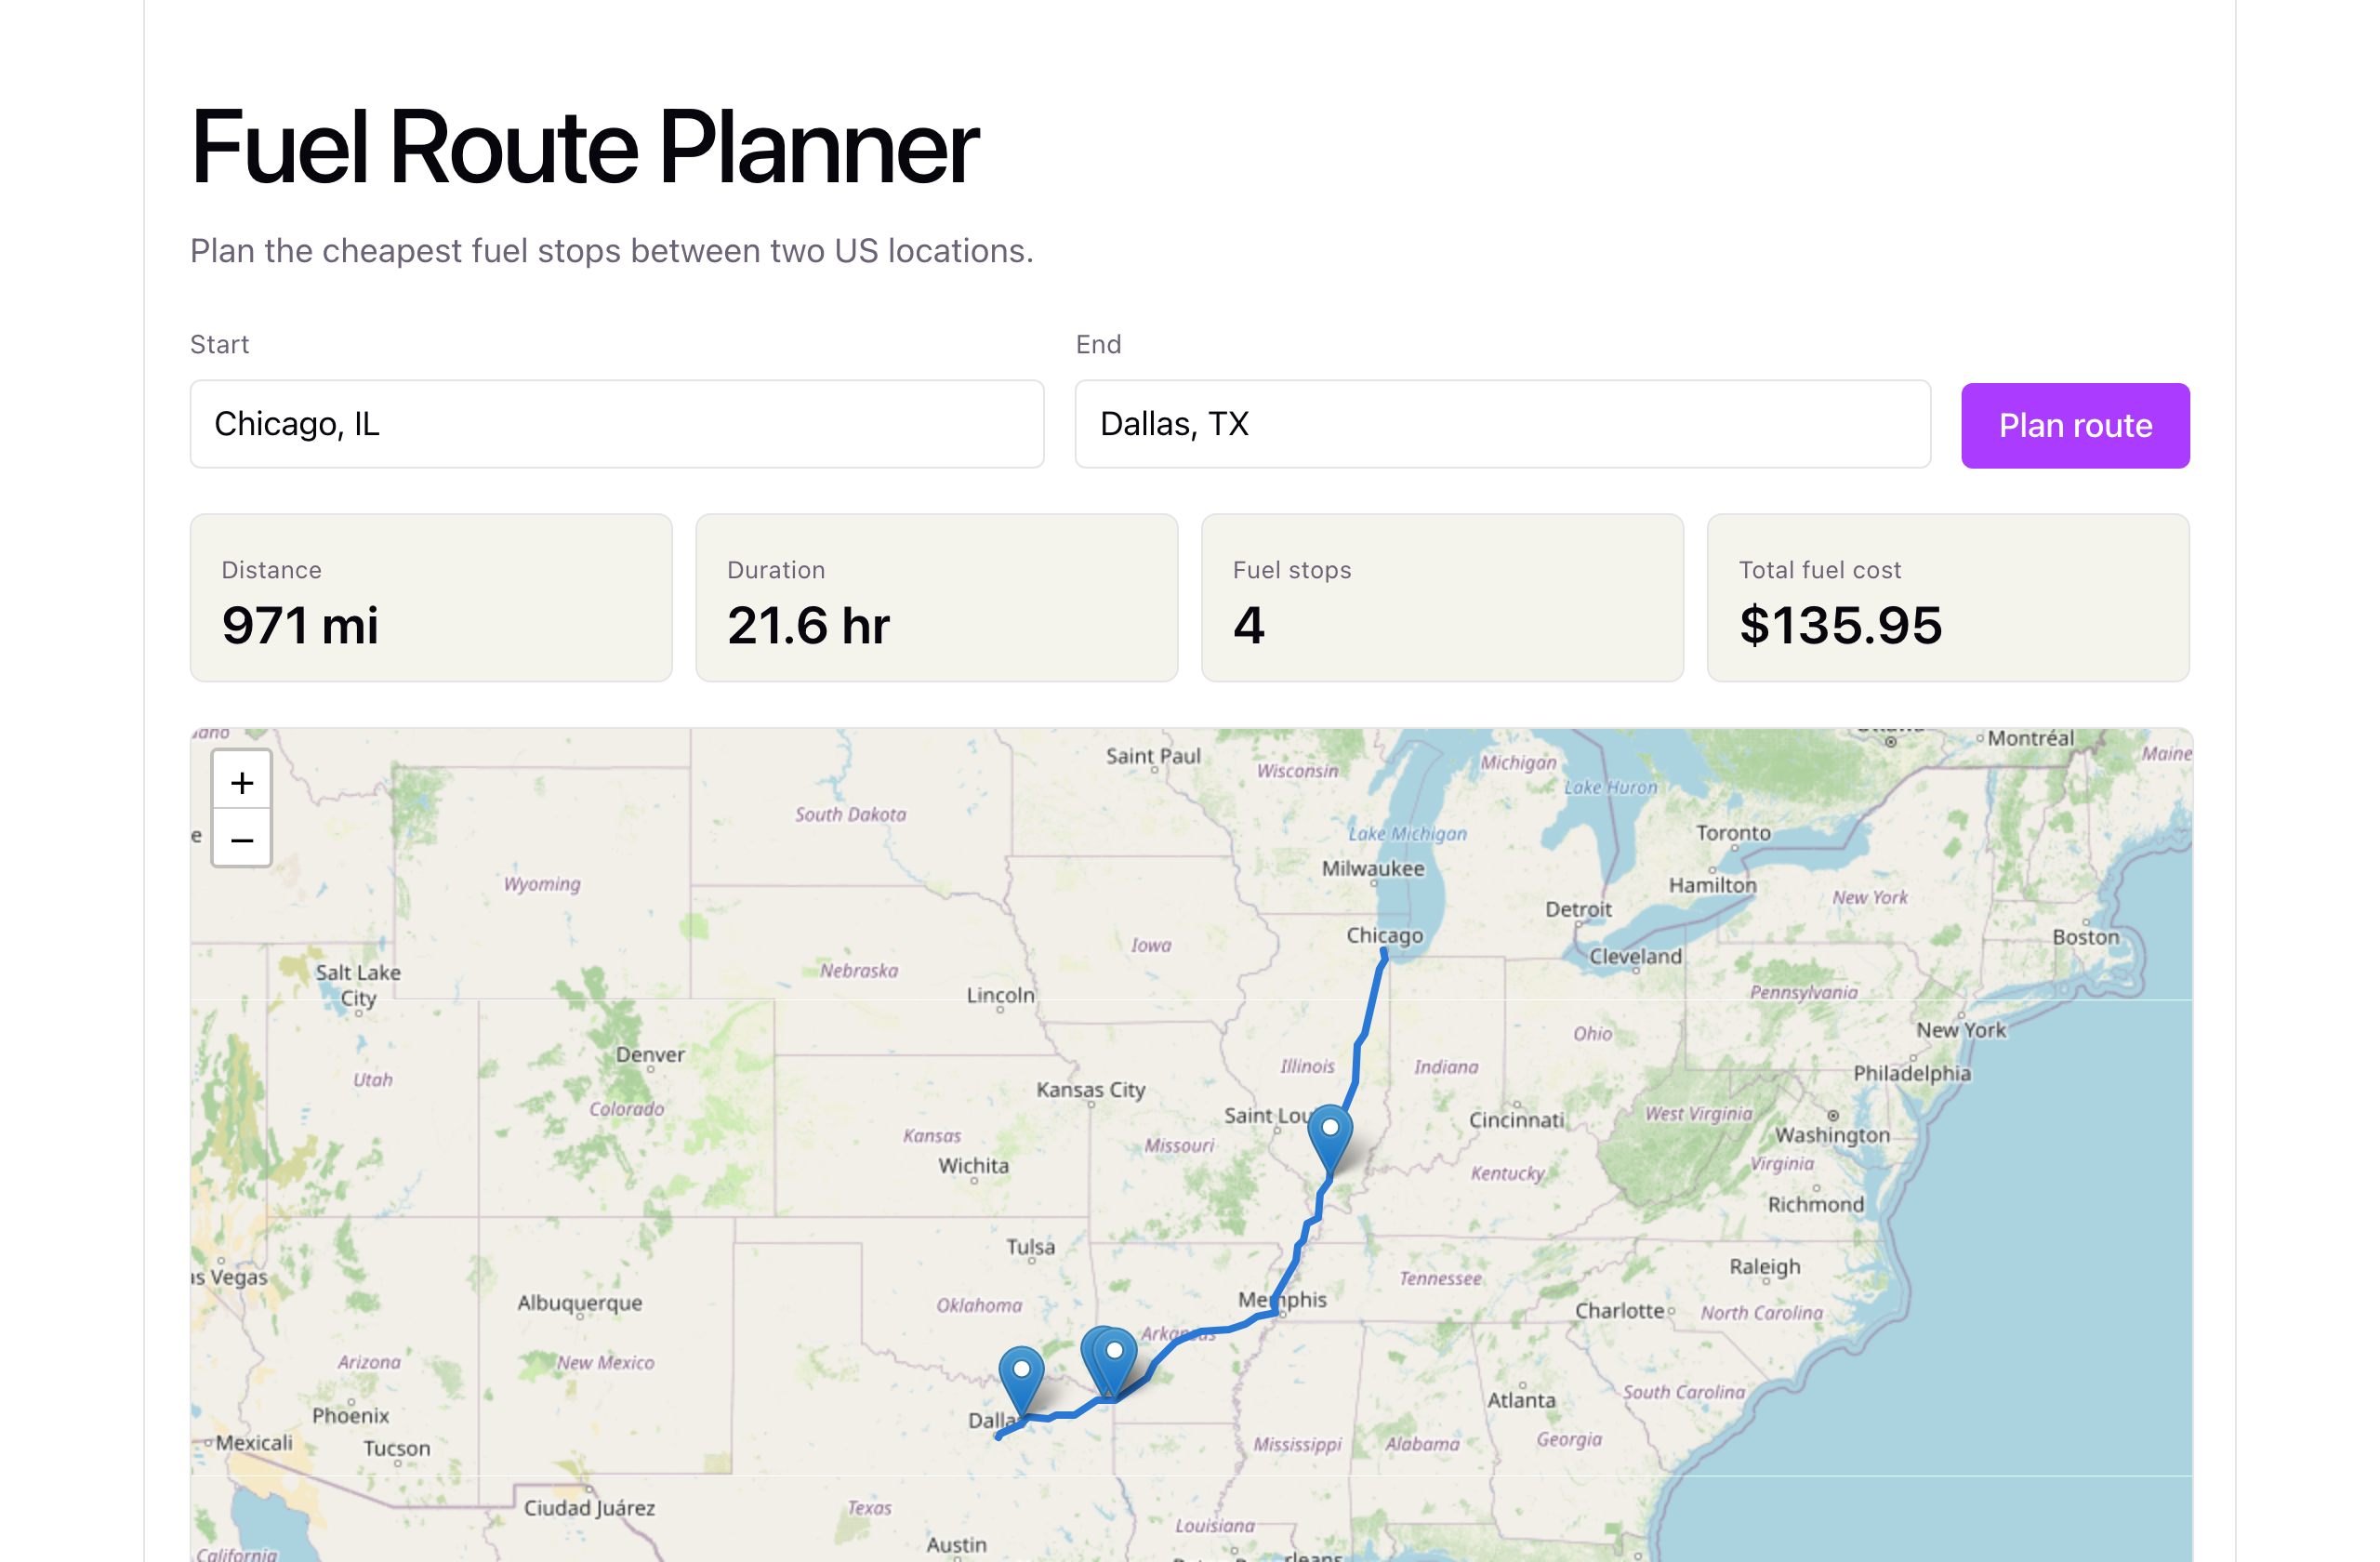
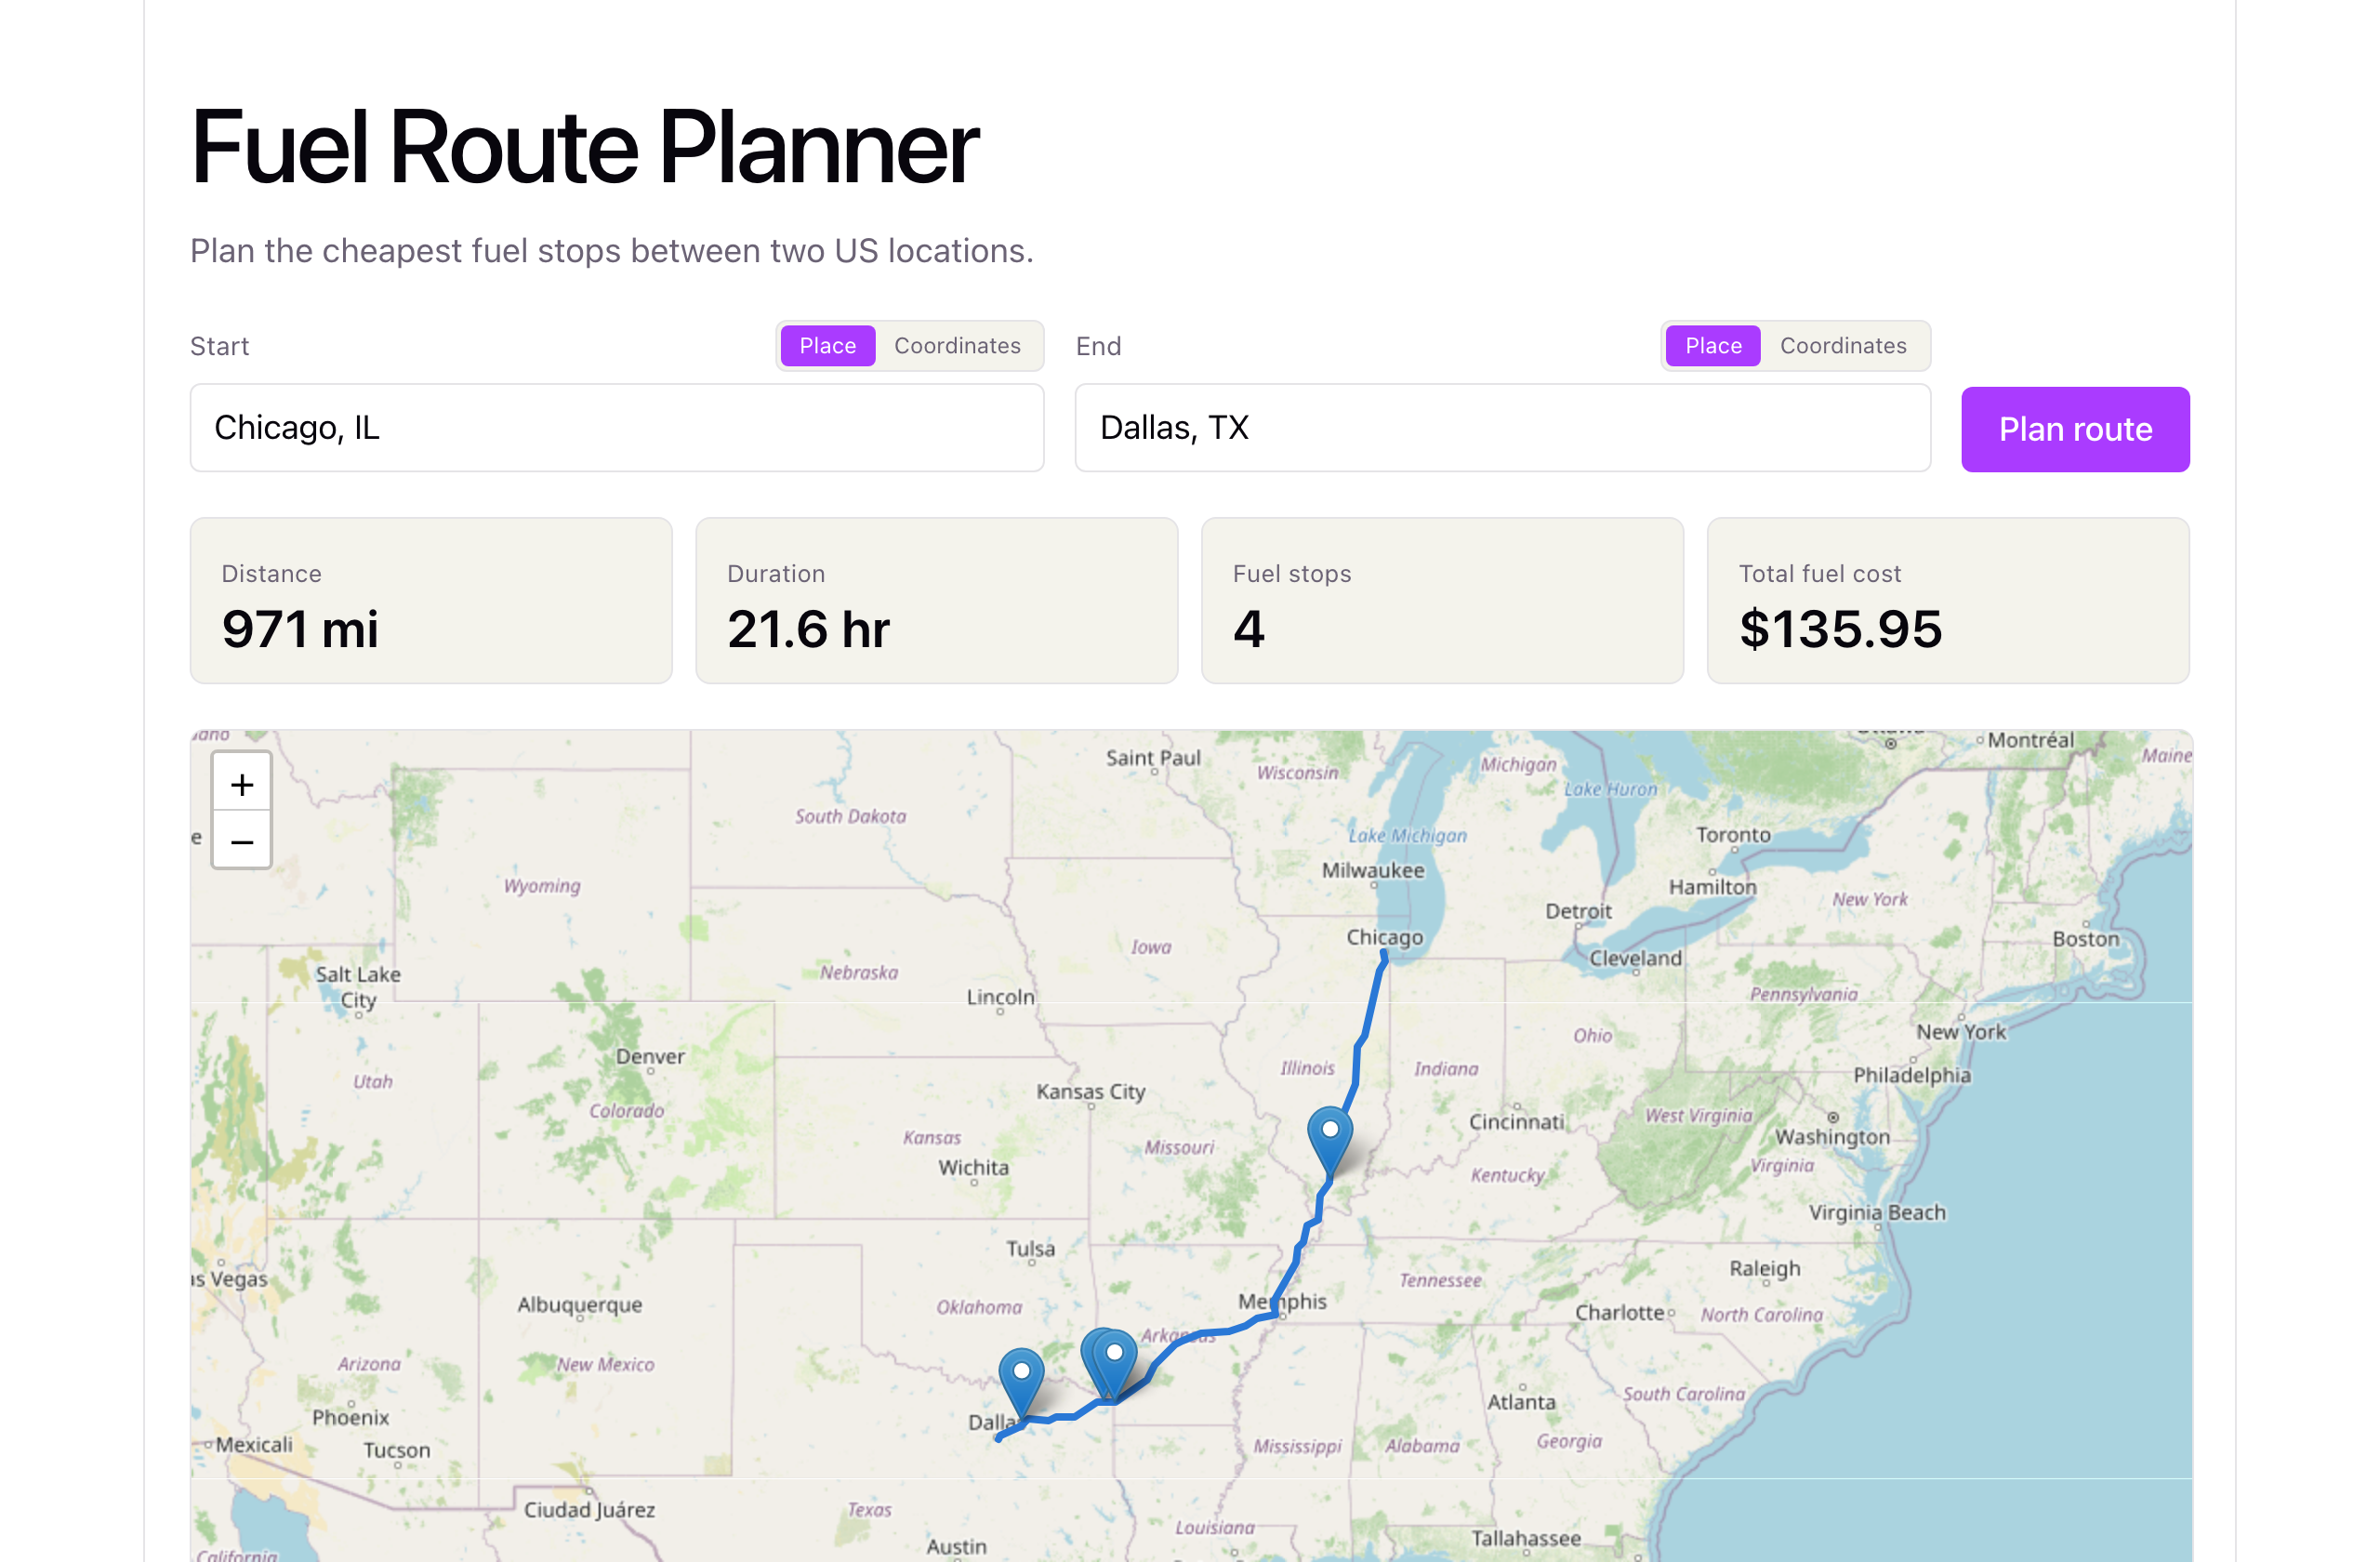
feat(frontend): add coordinate input mode to the route form
Each Start/End field now has a Place/Coordinates toggle, letting users
enter lat/lng directly instead of only a free-text location - mirrors
the API's LocationField, which already accepted either shape. Also
updates the README hero screenshot to show the new UI.

diff --git a/frontend/src/components/RouteForm.jsx b/frontend/src/components/RouteForm.jsx
@@ -1,34 +1,95 @@
 import { useState } from 'react'
 
+function toLocationValue(field) {
+  if (field.mode === 'coords') {
+    return { lat: Number(field.lat), lng: Number(field.lng) }
+  }
+  return field.place.trim()
+}
+
+function LocationInput({ label, placeholder, value, onChange }) {
+  function update(patch) {
+    onChange({ ...value, ...patch })
+  }
+
+  return (
+    <div className="field">
+      <div className="field-header">
+        <span>{label}</span>
+        <div className="mode-toggle" role="tablist" aria-label={`${label} input mode`}>
+          <button
+            type="button"
+            role="tab"
+            aria-selected={value.mode === 'place'}
+            className={value.mode === 'place' ? 'active' : ''}
+            onClick={() => update({ mode: 'place' })}
+          >
+            Place
+          </button>
+          <button
+            type="button"
+            role="tab"
+            aria-selected={value.mode === 'coords'}
+            className={value.mode === 'coords' ? 'active' : ''}
+            onClick={() => update({ mode: 'coords' })}
+          >
+            Coordinates
+          </button>
+        </div>
+      </div>
+
+      {value.mode === 'place' ? (
+        <input
+          value={value.place}
+          onChange={(event) => update({ place: event.target.value })}
+          placeholder={placeholder}
+          required
+        />
+      ) : (
+        <div className="coord-inputs">
+          <input
+            type="number"
+            inputMode="decimal"
+            step="any"
+            min={-90}
+            max={90}
+            value={value.lat}
+            onChange={(event) => update({ lat: event.target.value })}
+            placeholder="Latitude"
+            aria-label={`${label} latitude`}
+            required
+          />
+          <input
+            type="number"
+            inputMode="decimal"
+            step="any"
+            min={-180}
+            max={180}
+            value={value.lng}
+            onChange={(event) => update({ lng: event.target.value })}
+            placeholder="Longitude"
+            aria-label={`${label} longitude`}
+            required
+          />
+        </div>
+      )}
+    </div>
+  )
+}
+
 export default function RouteForm({ onSubmit, isLoading }) {
-  const [start, setStart] = useState('Chicago, IL')
-  const [end, setEnd] = useState('Dallas, TX')
+  const [start, setStart] = useState({ mode: 'place', place: 'Chicago, IL', lat: '', lng: '' })
+  const [end, setEnd] = useState({ mode: 'place', place: 'Dallas, TX', lat: '', lng: '' })
 
   function handleSubmit(event) {
     event.preventDefault()
-    onSubmit(start, end)
+    onSubmit(toLocationValue(start), toLocationValue(end))
   }
 
   return (
     <form className="route-form" onSubmit={handleSubmit}>
-      <label className="field">
-        <span>Start</span>
-        <input
-          value={start}
-          onChange={(event) => setStart(event.target.value)}
-          placeholder="Chicago, IL"
-          required
-        />
-      </label>
-      <label className="field">
-        <span>End</span>
-        <input
-          value={end}
-          onChange={(event) => setEnd(event.target.value)}
-          placeholder="Dallas, TX"
-          required
-        />
-      </label>
+      <LocationInput label="Start" placeholder="Chicago, IL" value={start} onChange={setStart} />
+      <LocationInput label="End" placeholder="Dallas, TX" value={end} onChange={setEnd} />
       <button type="submit" disabled={isLoading}>
         {isLoading ? 'Planning…' : 'Plan route'}
       </button>

diff --git a/frontend/src/App.css b/frontend/src/App.css
@@ -29,6 +29,38 @@
   color: var(--text);
 }
 
+.field-header {
+  display: flex;
+  align-items: center;
+  justify-content: space-between;
+  gap: 8px;
+}
+
+.mode-toggle {
+  display: inline-flex;
+  padding: 2px;
+  border-radius: 6px;
+  background: var(--code-bg);
+  border: 1px solid var(--border);
+}
+
+.mode-toggle button {
+  font: inherit;
+  font-size: 12px;
+  line-height: 1;
+  padding: 5px 10px;
+  border-radius: 4px;
+  border: none;
+  background: transparent;
+  color: var(--text);
+  cursor: pointer;
+}
+
+.mode-toggle button.active {
+  background: var(--accent);
+  color: #fff;
+}
+
 .field input {
   font: inherit;
   padding: 10px 12px;
@@ -43,7 +75,26 @@
   outline-offset: 1px;
 }
 
-.route-form button {
+.coord-inputs {
+  display: flex;
+  gap: 8px;
+}
+
+.coord-inputs input {
+  min-width: 0;
+}
+
+.coord-inputs input[type='number']::-webkit-inner-spin-button,
+.coord-inputs input[type='number']::-webkit-outer-spin-button {
+  -webkit-appearance: none;
+  margin: 0;
+}
+
+.coord-inputs input[type='number'] {
+  -moz-appearance: textfield;
+}
+
+.route-form > button {
   font: inherit;
   font-weight: 500;
   padding: 10px 20px;
@@ -54,7 +105,7 @@
   cursor: pointer;
 }
 
-.route-form button:disabled {
+.route-form > button:disabled {
   opacity: 0.6;
   cursor: default;
 }